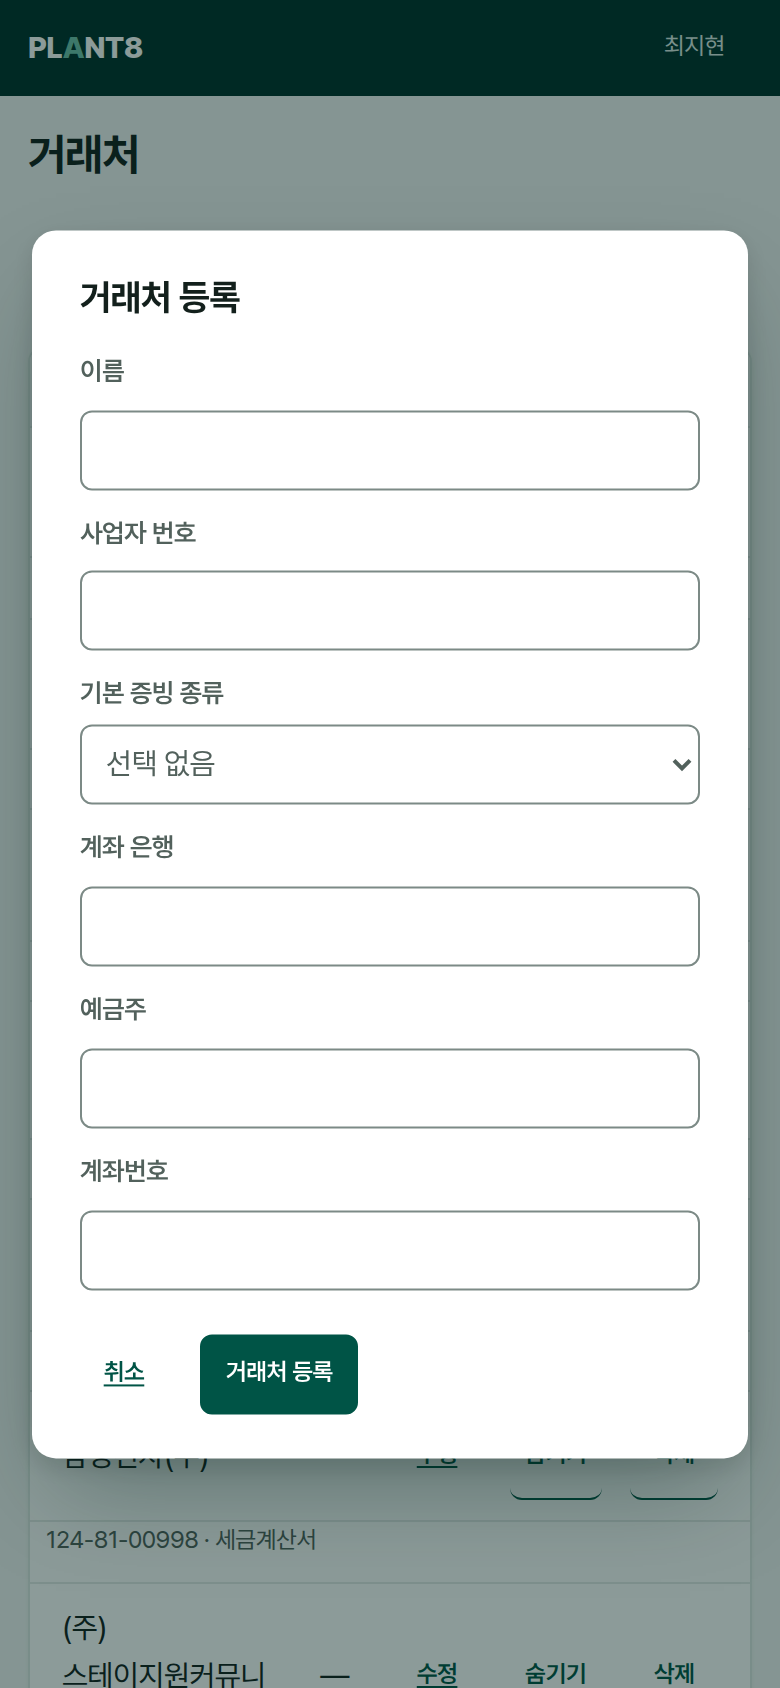
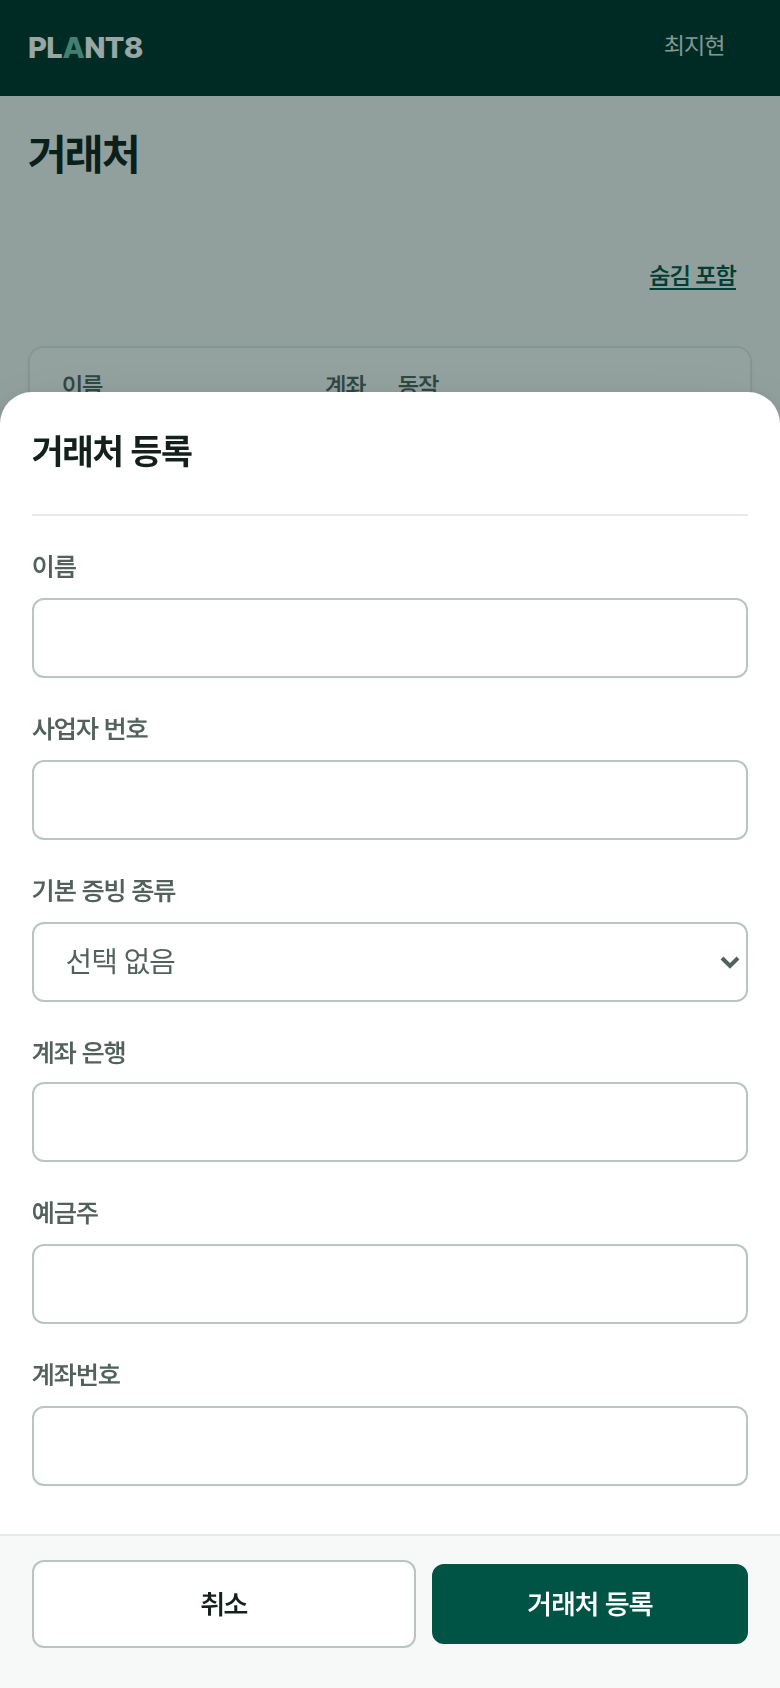
docs: 실물 보드 — 등록 모달 재디자인 · 옆 패널 안 · 동작 열 모양 통일
모달이 라벨 폭 규칙 때문에 깨져 있던 것을 고치고(PC 가운데 창 두 칸 격자, 폰 아래 시트),
오른쪽 옆 패널 안을 더했다. 거래처 동작 열의 링크(수정)와 버튼(숨기기·삭제) 모양을 하나로 맞췄다.

Claude-Session: https://claude.ai/code/session_017bh7NBUNgC9qcJXJQKF2fo

diff --git a/docs/design/explore-skin/real/_common.css b/docs/design/explore-skin/real/_common.css
@@ -1,25 +1,53 @@
 /* _common.css — 새 스킨(A·B·C·D) 공통 조각. 실제 앱 DOM(CSS 모듈 클래스)에 얹는 비교용 오버레이 — 앱 코드 아님.
  * ① 등록 폼을 목록 위 모달로(목록이 밀리지 않게) ② 거래처 동작 열 「수정숨기기삭제」 붙음 간격 ③ 폰 표 셀 여백 */
-/* ① 등록 모달: main 바로 아래 폼(거래처 ?new=1)을 화면 가운데 띄우고 뒤에 가림막 */
+/* ① 등록 모달(PC: 가운데 창 640px · 두 칸 격자 / 폰: 아래에서 올라오는 시트). 목록은 그대로, 뒤에 가림막 */
 html body main > form:has([class*="__formActions"]) {
   position: fixed; z-index: 60; left: 50%; top: 50%; transform: translate(-50%, -50%);
-  width: min(560px, calc(100vw - 32px)); max-height: calc(100vh - 64px); overflow: auto;
-  background: #FFFFFF; border-radius: var(--m-radius, 12px); padding: 20px 24px 20px;
-  box-shadow: 0 24px 48px -12px rgba(0, 33, 28, 0.35), 0 4px 12px rgba(0, 33, 28, 0.12);
+  width: min(640px, calc(100vw - 32px)); max-height: calc(100vh - 48px); overflow: auto;
+  background: #FFFFFF; border-radius: 12px; padding: 0 24px;
+  display: grid; grid-template-columns: 1fr 1fr; column-gap: 16px; align-content: start;
+  box-shadow: 0 24px 48px -12px rgba(0, 33, 28, 0.30), 0 2px 8px rgba(0, 33, 28, 0.10);
 }
 html body main > form:has([class*="__formActions"])::before {
-  content: "거래처 등록"; display: block; font-size: 18px; font-weight: 700; color: var(--fg); margin-bottom: 12px; letter-spacing: -0.02em;
+  content: "거래처 등록"; grid-column: 1 / -1; display: block; font-size: 18px; font-weight: 700; color: var(--fg);
+  letter-spacing: -0.02em; padding: 20px 0 16px; margin-bottom: 16px; border-bottom: 1px solid var(--line);
 }
-html body main:has(> form [class*="__formActions"])::after {
-  content: ""; position: fixed; inset: 0; background: rgba(0, 33, 28, 0.45); z-index: 55;
+html body main:has(> form [class*="__formActions"])::after { content: ""; position: fixed; inset: 0; background: rgba(0, 33, 28, 0.40); z-index: 55; }
+/* 칸: 라벨 위 · 입력 아래 */
+html body main > form:has([class*="__formActions"]) > div:is([class*="__row"], [class*="__selectLabel"]) { display: flex !important; flex-direction: column; align-items: stretch; gap: 6px; margin: 0 0 16px !important; min-width: 0; }
+html body main > form:has([class*="__formActions"]) > div > :is(label, [class*="__label"]) { flex: none !important; padding: 0 !important; margin: 0 !important; font-size: 13px; font-weight: 600; color: var(--muted); }
+html body main > form:has([class*="__formActions"]) > div > [class*="__field"] { flex: none !important; }
+html body main > form:has([class*="__formActions"]) :is(input, select) { width: 100%; max-width: none; height: 40px; border-radius: 6px; border: 1px solid #B9C5C1; padding: 0 12px; font-size: 15px; background-color: #FFFFFF; }
+html body main > form:has([class*="__formActions"]) > div:nth-of-type(1),
+html body main > form:has([class*="__formActions"]) > div:nth-of-type(6) { grid-column: 1 / -1; }
+/* 아래 줄: 오른쪽 정렬 · 취소는 2차 버튼 모양 · 등록이 주 버튼 */
+html body main > form:has([class*="__formActions"]) > [class*="__formActions"] {
+  grid-column: 1 / -1; display: flex; flex-direction: row-reverse; justify-content: flex-start; gap: 8px; align-items: center;
+  margin: 8px -24px 0; padding: 16px 24px; border-top: 1px solid var(--line); background: #F7F9F8; border-radius: 0 0 12px 12px;
+  position: sticky; bottom: 0;
 }
-html body main > form:has([class*="__formActions"]) [class*="TextField-module__"][class*="__row"] { grid-template-columns: 1fr; gap: 4px; }
-html body main > form:has([class*="__formActions"]) input,
-html body main > form:has([class*="__formActions"]) select { width: 100%; max-width: none; }
-html body main > form:has([class*="__formActions"]) [class*="__formActions"] { justify-content: flex-end; display: flex; flex-direction: row-reverse; gap: 16px; align-items: center; padding-top: 8px; }
-/* ② 동작 열 간격 */
+html body main > form:has([class*="__formActions"]) > [class*="__formActions"] a {
+  display: inline-flex; align-items: center; height: 40px; padding: 0 16px; border: 1px solid #B9C5C1; border-radius: 6px;
+  background: #FFFFFF; color: var(--fg); text-decoration: none; font-size: 14px; font-weight: 600;
+}
+html body main > form:has([class*="__formActions"]) > [class*="__formActions"] button { height: 40px; padding: 0 20px; font-size: 14px; border-radius: 6px; }
+@media (max-width: 699.98px) {
+  html body main > form:has([class*="__formActions"]) {
+    top: auto; bottom: 0; left: 0; transform: none; width: 100%; max-height: 88vh; border-radius: 16px 16px 0 0;
+    grid-template-columns: 1fr; padding: 0 16px;
+  }
+  html body main > form:has([class*="__formActions"])::before { padding-top: 16px; }
+  html body main > form:has([class*="__formActions"]) > [class*="__formActions"] { margin: 8px -16px 0; padding: 12px 16px 20px; border-radius: 0; }
+  html body main > form:has([class*="__formActions"]) > [class*="__formActions"] :is(a, span, button) { flex: 1; justify-content: center; }
+}
+/* ② 동작 열: 링크(수정)와 버튼(숨기기·삭제)을 같은 모양 · 같은 간격으로 */
 html body td:has(> [class*="__toggle"]) { white-space: nowrap; }
 html body td > [class*="__toggle"] ~ [class*="Button-module__"] { margin-left: 14px; }
+html body td > :is([class*="__toggle"], [class*="Button-module__"] [class*="__tertiary"]) {
+  font-size: 13px !important; font-weight: 600; color: var(--accent); border: 0 !important; padding: 0 !important; height: auto;
+  text-decoration: underline; text-decoration-thickness: 1px; text-underline-offset: 3px; background: none; line-height: 1.4;
+}
+html body td [class*="Button-module__"] [class*="__tertiary"] { font-size: 13px !important; font-weight: 600; border: 0 !important; text-decoration: underline; text-decoration-thickness: 1px; text-underline-offset: 3px; line-height: 1.4; padding: 0 !important; }
 /* 모달 안 칸: 라벨 위 · 입력 아래 한 줄 기둥으로 통일 */
 html body main > form:has([class*="__formActions"]) div:is([class*="__row"], [class*="__selectLabel"]) { display: flex !important; flex-direction: column; align-items: stretch; gap: 4px; margin: 0 0 12px; }
 html body main > form:has([class*="__formActions"]) :is(label, [class*="__label"]) { padding: 0 !important; font-size: 13px; font-weight: 600; }

diff --git a/docs/design/explore-skin/real/index.html b/docs/design/explore-skin/real/index.html
@@ -28,7 +28,7 @@ button:focus-visible{outline:2px solid var(--accent);outline-offset:2px}
   <p class="lead">실제 앱(로컬, 실제 컴포넌트·CSS)을 띄워 세 화면에 스킨을 얹고 찍은 사진입니다. DOM과 동작은 그대로이고, D 사이드바와 등록 모달만 구조를 바꾼 안입니다. 웜톤 바탕은 뺐습니다.</p>
   <div class="bar">
     <div class="ctl"><span class="lb">안</span><div class="seg" id="skin">
-      <button type="button" data-v="now">현재</button><button type="button" data-v="a">A 정돈</button><button type="button" data-v="b">B 스튜디오</button><button type="button" data-v="c">C 스테이지</button><button type="button" data-v="d">D 사이드바</button>
+      <button type="button" data-v="now">현재</button><button type="button" data-v="a">A 정돈</button><button type="button" data-v="b">B 스튜디오</button><button type="button" data-v="c">C 스테이지</button><button type="button" data-v="d">D 사이드바</button><button type="button" data-v="e">A + 옆 패널</button>
     </div></div>
     <div class="ctl"><span class="lb">화면</span><div class="seg" id="screen">
       <button type="button" data-v="projects">프로젝트 목록</button><button type="button" data-v="project">견적 원장</button><button type="button" data-v="vendors">거래처 등록</button>
@@ -44,9 +44,10 @@ button:focus-visible{outline:2px solid var(--accent);outline-offset:2px}
 <script>
 const NOTES = {
   now: ['현재 (main 그대로)', '2px 진한 선 · 직각 · 흰 바탕. 거래처 등록 폼은 목록 위에 열려 목록을 아래로 민다. 동작 열 「수정숨기기삭제」가 붙어 보이는 간격 버그도 그대로 찍혔다.'],
-  a: ['A 정돈 — 가장 안전', '딥그린 상단 바 유지. 차가운 회색 바탕 위에 표를 흰 면(모서리 8 · 1px 선 · 아주 옅은 그림자)으로 올리고, 2px 선을 1px + 옅은 초록 그룹 줄로 바꿨다. 행 44px · 제목 22px. 등록은 모달.'],
+  a: ['A 정돈 — 가장 안전', '딥그린 상단 바 유지. 차가운 회색 바탕 위에 표를 흰 면(모서리 8 · 1px 선 · 아주 옅은 그림자)으로 올리고, 2px 선을 1px + 옅은 초록 그룹 줄로 바꿨다. 행 44px · 제목 22px. 등록은 가운데 모달(폰은 아래 시트). 동작 열 「수정·숨기기·삭제」 모양을 하나로 맞췄다.'],
   b: ['B 스튜디오 — 가장 과감', '흰 상단 바 + 둥근 메뉴, 쿨 그레이 캔버스 위 흰 카드(모서리 14 · 층 그림자), 둥근 상태 태그, 행 48px · 제목 26px. 가장 요즘 앱 같지만 한 화면에 보이는 줄이 가장 적다. 등록은 모달.'],
   c: ['C 스테이지 — 브랜드', '상단 바와 제목 구역을 딥그린 한 띠로 이어 회사 색을 세우고 본문은 밝게. 표 머리글·그룹 줄은 초록 틴트, 흰 표 면(모서리 8). 제목 28px. 등록은 모달.'],
+  e: ['A + 옆 패널', 'A 정돈과 같고, 거래처 등록만 가운데 모달 대신 오른쪽에서 나오는 옆 패널(480px)로. 목록 왼쪽이 계속 보인다. 폰은 A와 같이 아래에서 올라오는 시트. 목록·견적 원장 화면은 A와 같다.'],
   d: ['D 사이드바 — 구조 변경', 'A 정돈 피부 + 상단 메뉴를 왼쪽 딥그린 사이드바(232px)로. 표가 쓸 가로 폭이 232px 줄어든다. 폰은 사이드바 없이 A와 같다(하단 탭 유지). 등록은 모달.']
 };
 const state = { skin: 'a', screen: 'projects', width: innerWidth < 700 ? 390 : 1280 };

diff --git a/docs/design/explore-skin/real/overlay-e.css b/docs/design/explore-skin/real/overlay-e.css
@@ -1,0 +1,9 @@
+/* 안 A + 옆 패널 — 등록 폼을 가운데 모달 대신 오른쪽에서 나오는 패널(드로어)로. 목록 왼쪽 부분은 계속 보인다 */
+@media (min-width: 700px) {
+  html body main > form:has([class*="__formActions"]) {
+    left: auto; right: 0; top: 0; bottom: 0; transform: none; width: 480px; max-height: none; height: 100vh;
+    border-radius: 16px 0 0 16px; display: flex !important; flex-direction: column;
+  }
+  html body main > form:has([class*="__formActions"]) > [class*="__formActions"] { position: sticky; bottom: 0; margin-top: auto; border-radius: 0; }
+  html body main:has(> form [class*="__formActions"])::after { background: rgba(0, 33, 28, 0.20); }
+}
